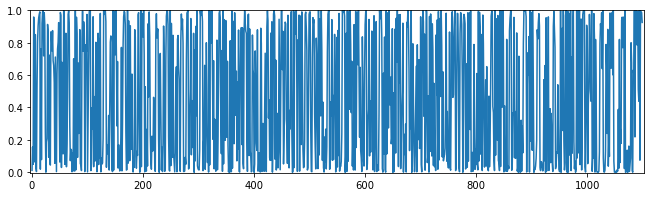
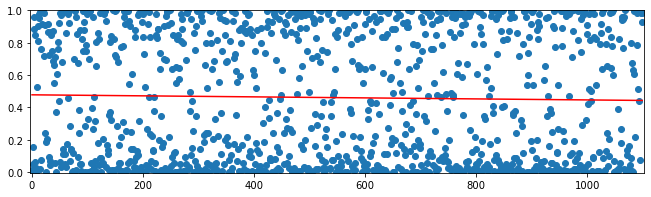
Tweak the figures showcasing the arcsine distribution

diff --git a/thesis/thesis.html b/thesis/thesis.html
@@ -2632,16 +2632,19 @@ this may be proved using the inequality (1 X 1/<i>k</i>)<sup><i>k</i></sup> < <i
 
     <p>
       На <i>(фиг. 21)</i> се наблюдават по-високи стойности на <i>s</i> параметъра на зета
-      разпределението, отколкото на <i>(фиг. 20)</i>. Обяснението е, че моделът започва да дава по-високи максимални
-      вероятности след няколко стъпки. Моделът е "по-сигурен" в предсказанията си. Интересно е дали това може да се
-      наблюдава не само в в предсказанията, а и в правилно познаване на реалните категории.
+      разпределението, отколкото на <i>(фиг. 20)</i>. Възможна интерпретация е, че моделът започва да дава по-високи
+      максимални вероятности след няколко стъпки. Моделът е "по-сигурен" в предсказанията си. Интересно е дали това може
+      да се наблюдава не само в предсказанията, а и в правилното познаване на реалните категории.
     </p>
 
     <p>
-      За да проверим това, на <i>(фиг. 22)</i> по хоризонтала изобразяваме всички възможни позиции на категории.
-      По вертикала, на всяка позиция съпоставяме вероятността, с която е предсказана реалната категория (т.е. по
-      вертикала имаме вероятности). Ако моделът предсказва по-точно позициите с по-висок индекс, очакваме да видим
-      крива, която расте от ляво надясно.
+      За да бъде проверено това, на <i>(фиг. 22)</i> се съпоставят предсказанията за категории с реалните категории на
+      модела.
+    </p>
+
+    <p>
+      <div>Пояснение:</div>
+      "Реална категория" е наречена категория, така както се появява във входните данни, подлежащи на компресия.
     </p>
 
     <div style="display: inline-flex;">
@@ -2651,22 +2654,25 @@ this may be proved using the inequality (1 X 1/<i>k</i>)<sup><i>k</i></sup> < <i
       </div>
     </div>
 
-    <div>
-      <div style="float: left; margin: 10px 30px 10px 0;">
-        <img src="correct-prediction-chance-sorted.png">
-        <i style="display: block; padding-left: 30px;">(фиг. 23)</i>
-      </div>
-    </div>
-
     <p>
-      Такова растене не са наблюдава. Кривата дори изглежда като шум. Интересно е дали този шум има някакво
-      статистическо разпределение. За целта могат да се сортират вероятностите и да се изобразят&mdash;това е направено
-      на <i>фиг. 23</i>. Приликата с функция на вероятността на нормално разпределение е подвеждаща. Данните реално са
-      транспонирани.
+      По хоризонтала са изобразени всички възможни позиции на категории. По вертикала, на всяка позиция е съпоставена
+      вероятността, с която е предсказана реалната категория (т.е. по вертикала има вероятности). Всяка синя точка е
+      двойка (позиция, вероятност предсказана от модела) за категория. С червен цвят е изобразена права, получена чрез
+      линейна регресия за облака от точки.
     </p>
 
     <p>
-      Реалната функция на разпределение е на <i>фиг. 25</i>. А функцията на плътността&mdash;на <i>фиг. 24</i>. Това
+      За да има нарастване в познаването на реалните категории, правата трябва да има положителен наклон. Трудно е да се
+      забележи такова нарастване. Дори има известно намаляване.
+    </p>
+
+    <p>
+      Но се забелязва друга зависимост&mdash;предсказанията за реалните категории са концентрирани около 0 и 1.
+      Интересно е да се провери дали присъства статистическо разпределение.
+    </p>
+
+    <p>
+      На <i>фиг. 23</i> е функция на плътността. А функцията на разпределение&mdash;на <i>фиг. 24</i>. Това
       прилича на аркуссинусово разпределение. Авторът не предлага интерпретация, но намира присъствието на
       аркуссинусово разпределение за интересен факт, заслужаващ повече изследване.
     </p>
@@ -2676,11 +2682,11 @@ this may be proved using the inequality (1 X 1/<i>k</i>)<sup><i>k</i></sup> < <i
     <div style="display: inline-flex;">
       <div style="float: left;">
         <img src="arcsine-pdf.png">
-        <i style="display: block; padding-left: 30px;">(фиг. 24)</i>
+        <i style="display: block; padding-left: 30px;">(фиг. 23)</i>
       </div>
       <div style="float: left;">
         <img src="arcsine-cdf.png">
-        <i style="display: block; padding-left: 30px;">(фиг. 25)</i>
+        <i style="display: block; padding-left: 30px;">(фиг. 24)</i>
       </div>
     </div>
 
@@ -2711,7 +2717,7 @@ Total params: 15,611,775
 Trainable params: 15,611,775
 Non-trainable params: 0
       </pre>
-      <i style="display: block; padding-left: 20px;">(фиг. 26)</i>
+      <i style="display: block; padding-left: 20px;">(фиг. 25)</i>
     </div>
 
     <ul>
@@ -2723,7 +2729,7 @@ Non-trainable params: 0
     </ul>
 
     <p style="clear: both;">
-      На <i>(фиг. 26)</i> е описан моделът, избран като финален резултат от дипломната работа. Компресията, която
+      На <i>(фиг. 25)</i> е описан моделът, избран като финален резултат от дипломната работа. Компресията, която
       моделът достига е 22%. Използват се 15&nbsp;611&nbsp;775 параметъра. Финалните размери са:
     </p>
 
